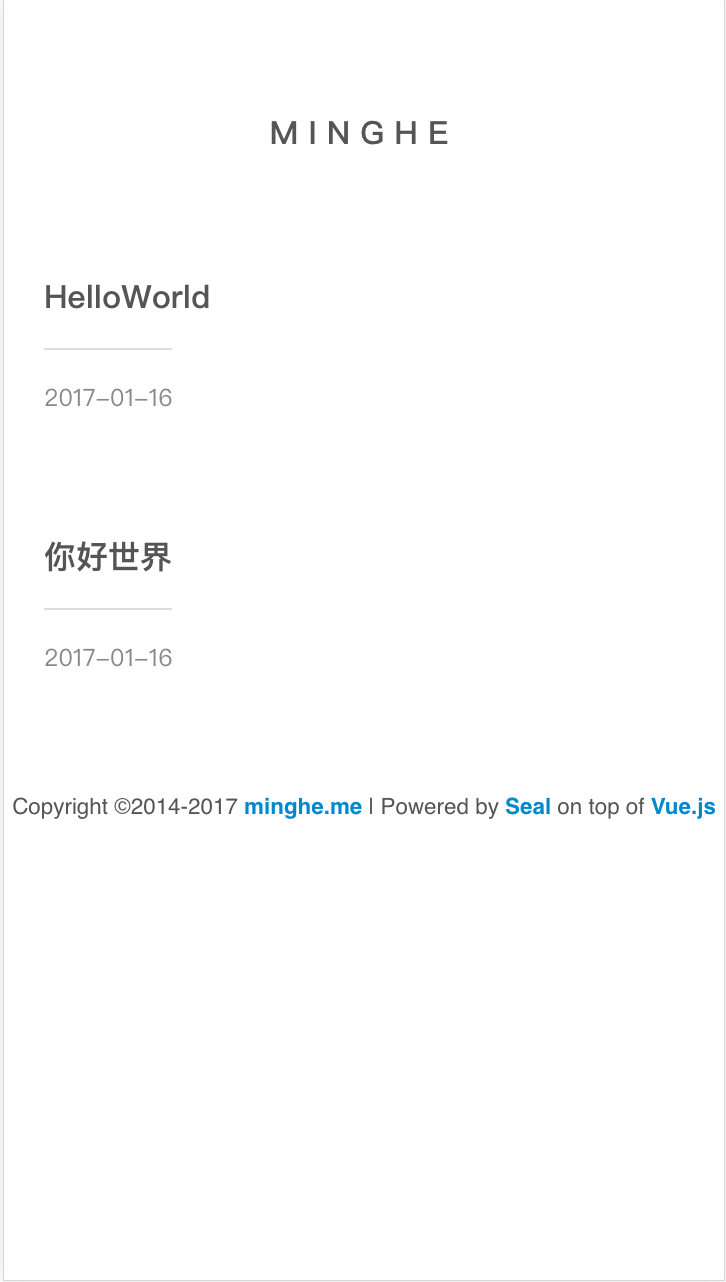
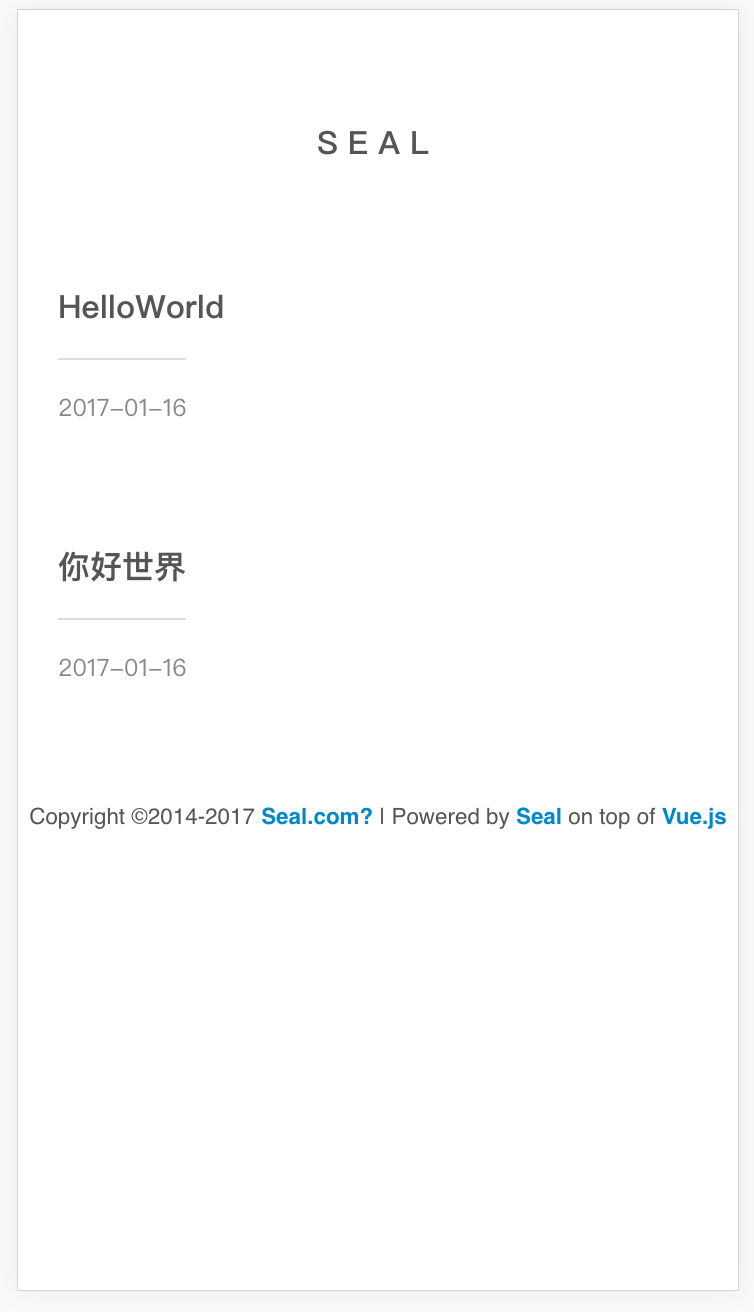
update info

diff --git a/src/components/Footer/Footer.vue b/src/components/Footer/Footer.vue
@@ -1,6 +1,6 @@
 <template>
   <footer class="footer">
-    Copyright ©2014-2017 <a href="http://minghe.me"> {{ domain }}</a> | Powered by <a href="https://github.com/***REMOVED***/Seal">Seal</a> on top of <a href="https://vuejs.org" target="_blank">Vue.js</a>
+    Copyright ©2014-2017 <a href="https://github.com/***REMOVED***/Seal"> {{ domain }}</a> | Powered by <a href="https://github.com/***REMOVED***/Seal">Seal</a> on top of <a href="https://vuejs.org" target="_blank">Vue.js</a>
   </footer>
 </template>
 

diff --git a/README.md b/README.md
@@ -1,5 +1,5 @@
-![home](https://raw.githubusercontent.com/***REMOVED***/Seal/master/screenshots/home.png)
-![post](https://raw.githubusercontent.com/***REMOVED***/Seal/master/screenshots/post.png)
+<img src="https://raw.githubusercontent.com/***REMOVED***/Seal/master/screenshots/home.png" alt="home" style="width: 250px;"/>
+<img src="https://raw.githubusercontent.com/***REMOVED***/Seal/master/screenshots/post.png" alt="home" style="width: 250px;"/>
 
 # Seal
 
